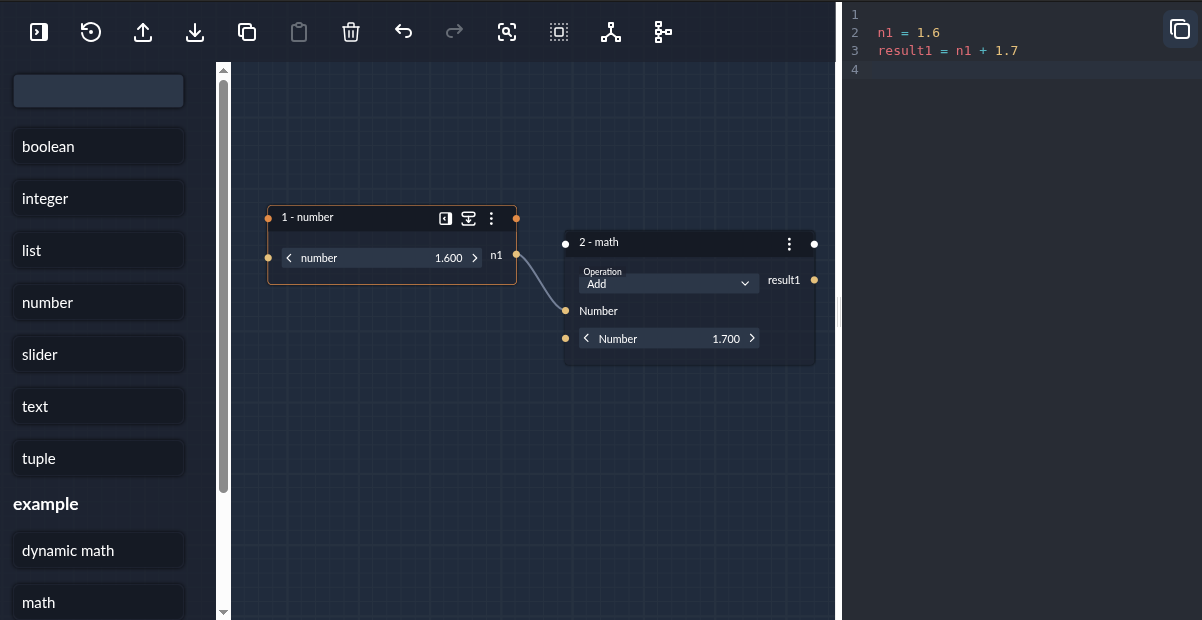
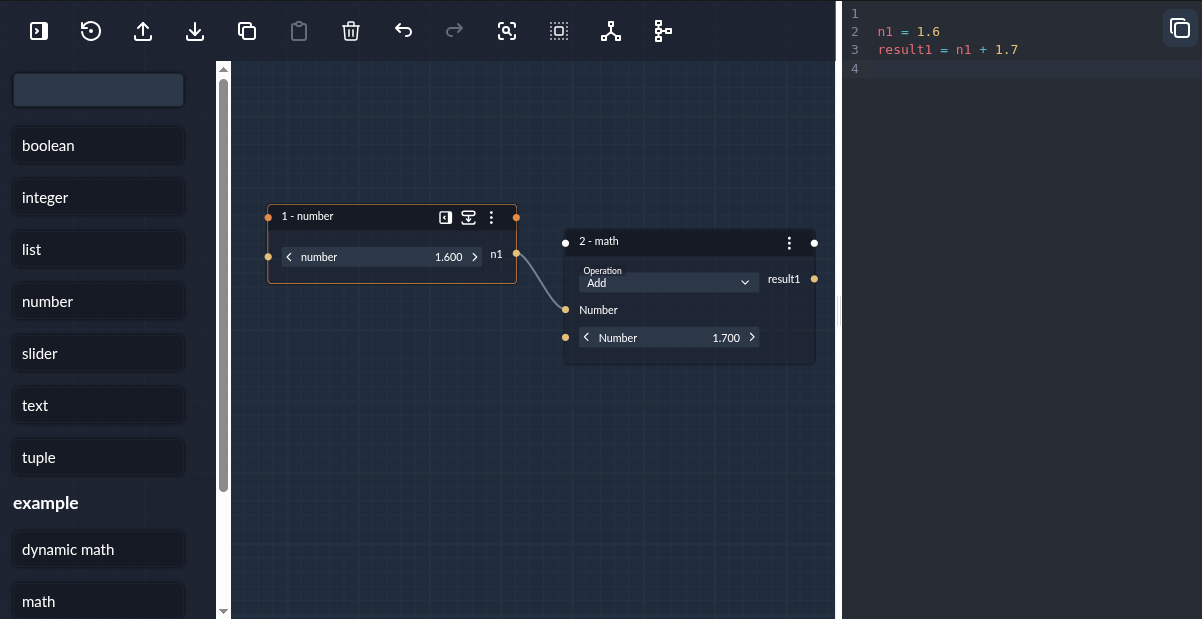
Update docs

diff --git a/docs/user/code-node.md b/docs/user/code-node.md
@@ -3,10 +3,23 @@
 The code node is composed of input and output interfaces. Inputs are among basic interface designed as function 
 arguments in codes and outputs are function outomes.
 
-User can modify values in input interfaces or connect them to other
-node outputs. The code will be automatically generated on each user action in node interface.
+User can modify values in input interfaces or connect them to other node outputs. The code will be automatically 
+generated on each user action in node interface.
 
 <div style="display: flex">
   <img src="/images/code-node-interfaces.png" alt="Code node" style="width: 260px; margin: auto;">
   <img src="/images/my-function-code.png" alt="My function code" style="margin: auto;">
 </div>
+
+## Node sidebar
+
+Clicking on node toolbar button opens a sidebar of the selected node.
+
+<div style="display: flex; gap: 50px">
+  <img src="/images/code-node-selected.png" alt="Code node" style="margin: auto;">
+  <img src="/images/code-node-sidebar.png" alt="My function code" style="margin: auto;">
+</div>
+
+Besides modifing parameters it shows more customization of the node. The prominent one is the visiblility option of each
+optional parameter. Others are to change variable name or code within the node.
+
